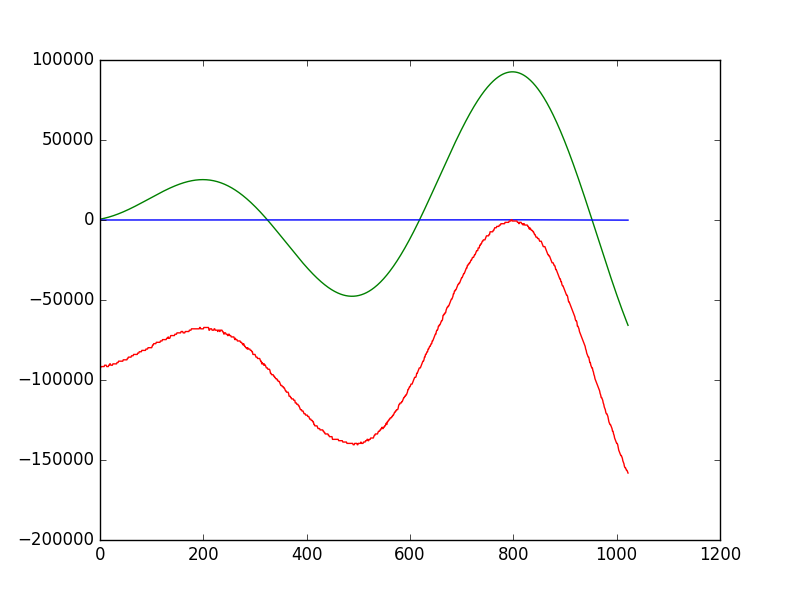
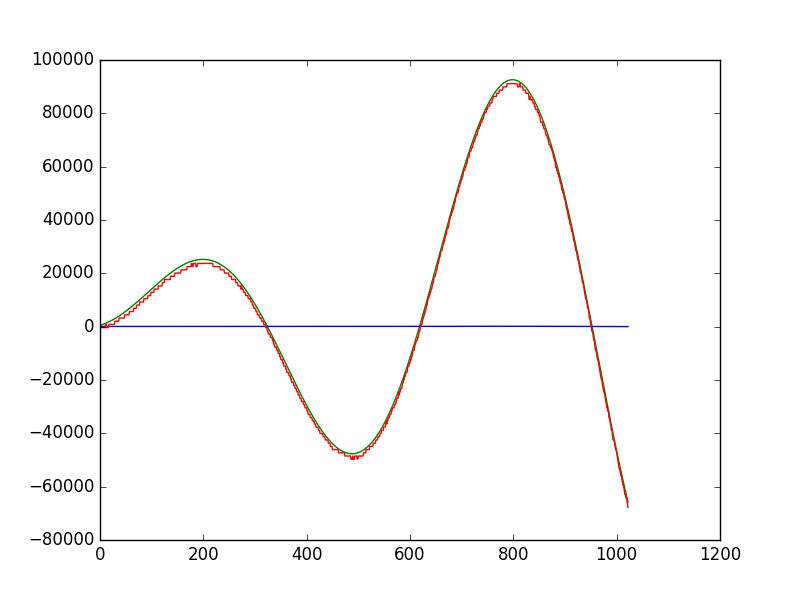
ある程度決め打ちで乗算ができるようになった。

diff --git a/python_ref/npu.py b/python_ref/npu.py
@@ -2,7 +2,7 @@ import numpy as np
 
 # 8bitの最大値
 QUANTIZE_BIT = 8
-MAX_VALUE = (2 ** (QUANTIZE_BIT - 1) )- 1
+MAX_VALUE = (2 ** QUANTIZE_BIT )- 1
 
 
 def deQuantize_scalar(x, min, max):
@@ -11,15 +11,14 @@ def deQuantize_scalar(x, min, max):
     return x * gain + min
 
 
-def deQuantize(arr, min, max):
+def deQuantize(arr, a_min, a_max):
     """量子化を元に戻す"""
-    gain = (max - min) / MAX_VALUE
-    return arr * gain + min
-
+    gain = (a_max - a_min) / MAX_VALUE
+    return arr * gain + a_min
 
 def Quantize(arr, min, max):
     """量子化を行う"""
-    range = max - min
+    range = (max - min)
     range_scale = range / MAX_VALUE
     return ((arr - min) / range_scale).astype(np.int)
 
@@ -28,7 +27,7 @@ def reQuantize(arr, min, max, new_min, new_max):
     gain = (new_max - new_min) / (max - min)
     offset = min / gain
     # start vector
-    c_qt = arr * gain - offset
+    c_qt = arr * gain
 
     return c_qt.astype(np.int)
 
@@ -54,26 +53,59 @@ def q_add(a_qt, a_min, a_max, b_qt, b_min, b_max):
 
 def q_mul(a_qt, a_min, a_max, b_qt, b_min, b_max):
     """乗算"""
+    Adash_max = a_max - a_min
+    Adash_min = 0.0
+    Bdash_max = b_max - b_min
+    Bdash_min = 0.0
+
+    AdBd_qt, AdBd_min, AdBd_max = q_mul_core(a_qt, Adash_min, Adash_max, b_qt, Bdash_min, Bdash_max)
+
+    # constant mul
+    if b_min < 0:
+        qt_A_bmin_min, A_bmin_min, A_bmin_max =  q_inv(a_qt, a_max * b_min, a_min * b_min)
+    else:
+        A_bmin_max = a_max * b_min
+        A_bmin_min = a_min * b_min
+        qt_A_bmin_min = a_qt
+
+    B_bmin_max = b_max * a_min
+    B_bmin_min = b_min * a_min
+
+    C_qt_0, C_qt_0_min, C_qt_0_max = q_add(qt_A_bmin_min, A_bmin_min, A_bmin_max, b_qt, B_bmin_min, B_bmin_max)
+
+    C_qt, c_min, c_max = q_add(AdBd_qt, AdBd_min, AdBd_max, C_qt_0, C_qt_0_min, C_qt_0_max)
+
+    f1 = a_min * b_min
+    f2 = a_max * b_max
+    f3 = a_max * b_min
+    f4 = a_min * b_max
+
+#    c_min = -94622
+#    c_max = 211407
+    c_max = c_max + f3
+    c_min = c_min + f3
+
+    return C_qt.astype(np.int), c_min, c_max
+
+
+def q_mul_core(a_qt, a_min, a_max, b_qt, b_min, b_max):
+    """乗算"""
     gain_a = (a_max - a_min) / MAX_VALUE
     gain_b = (b_max - b_min) / MAX_VALUE
-    offset_a = a_min
-    offset_b = b_min
-    p_gagb = gain_a * gain_b
-    p_gaob = gain_a * offset_b
-    p_gboa = gain_b * offset_a
-    p_oaob = offset_a * offset_b
-    min = p_oaob
+    min = a_min * b_min
     max = a_max * b_max
-    q_param = (max - min) / MAX_VALUE
+    q_param = MAX_VALUE / (max - min)
+
+
+    p_gagb = gain_a * gain_b * q_param
+    p_gaob = gain_a * b_min * q_param
+    p_gboa = gain_b * a_min * q_param
 
     # start vector alu
-    AB = p_gagb * a_qt * b_qt
-    gaob_A = a_qt * p_gaob
-    gboa_B = b_qt * p_gboa
-
+    AB = (p_gagb * a_qt * b_qt).astype(np.int)
+    gaob_A = (a_qt * p_gaob).astype(np.int)
+    gboa_B = (b_qt * p_gboa).astype(np.int)
     c_qt = AB + gaob_A + gboa_B
-    c_qt /= q_param
-
 
     return c_qt.astype(np.int), min, max
 

diff --git a/python_ref/q_mul.py b/python_ref/q_mul.py
@@ -9,7 +9,7 @@ def save_img(fname, V, q_V, deq_V, n = 1):
     plt.plot(x, V, color="green")
     plt.plot(x, q_V, color="b")
     plt.plot(x, deq_V, color="r")
-    plt.savefig(fname)
+    plt.savefig('img/'+fname)
 
 
 A = np.arange(0, 1023, 1.0) + 50
@@ -24,11 +24,18 @@ b_max = np.max(B)
 q_B = npu.Quantize(B, b_min, b_max)
 deq_B = npu.deQuantize(q_B, b_min, b_max)
 
+"""
 # 定数の乗算
 b_min2 = b_min * 3
 b_max2 = b_max * 3
 deq_B = npu.deQuantize(q_B, b_min2, b_max2)
 save_img('const_mul.png', B, q_B, deq_B)
+
+q_B_inv, b_min3, b_max3 = npu.q_inv(q_B, b_min2, b_max2)
+deq_B_inv = npu.deQuantize(q_B_inv, b_min3, b_max3)
+save_img('const_mul_inv.png', -3 * B, q_B_inv, deq_B_inv, n = 10)
+"""
+
 
 # mul
 C = A * B

diff --git a/python_ref/q_inv.py b/python_ref/q_inv.py
@@ -10,7 +10,7 @@ def save_img(fname: object, V: object, q_V: object, deq_V: object, n: object = 1
     plt.plot(x, V, color="green")
     plt.plot(x, q_V, color="b")
     plt.plot(x, deq_V, color="r")
-    plt.savefig(fname)
+    plt.savefig('img/' + fname)
 
 
 A = np.arange(0, 1023, 1.0) + 50

diff --git a/python_ref/q_add.py b/python_ref/q_add.py
@@ -9,7 +9,7 @@ def save_img(fname, V, q_V, deq_V, n = 1):
     plt.plot(x, V, color="green")
     plt.plot(x, q_V, color="b")
     plt.plot(x, deq_V, color="r")
-    plt.savefig(fname)
+    plt.savefig('img/'+fname)
 
 
 A = np.arange(0, 1023, 1.0) + 50
